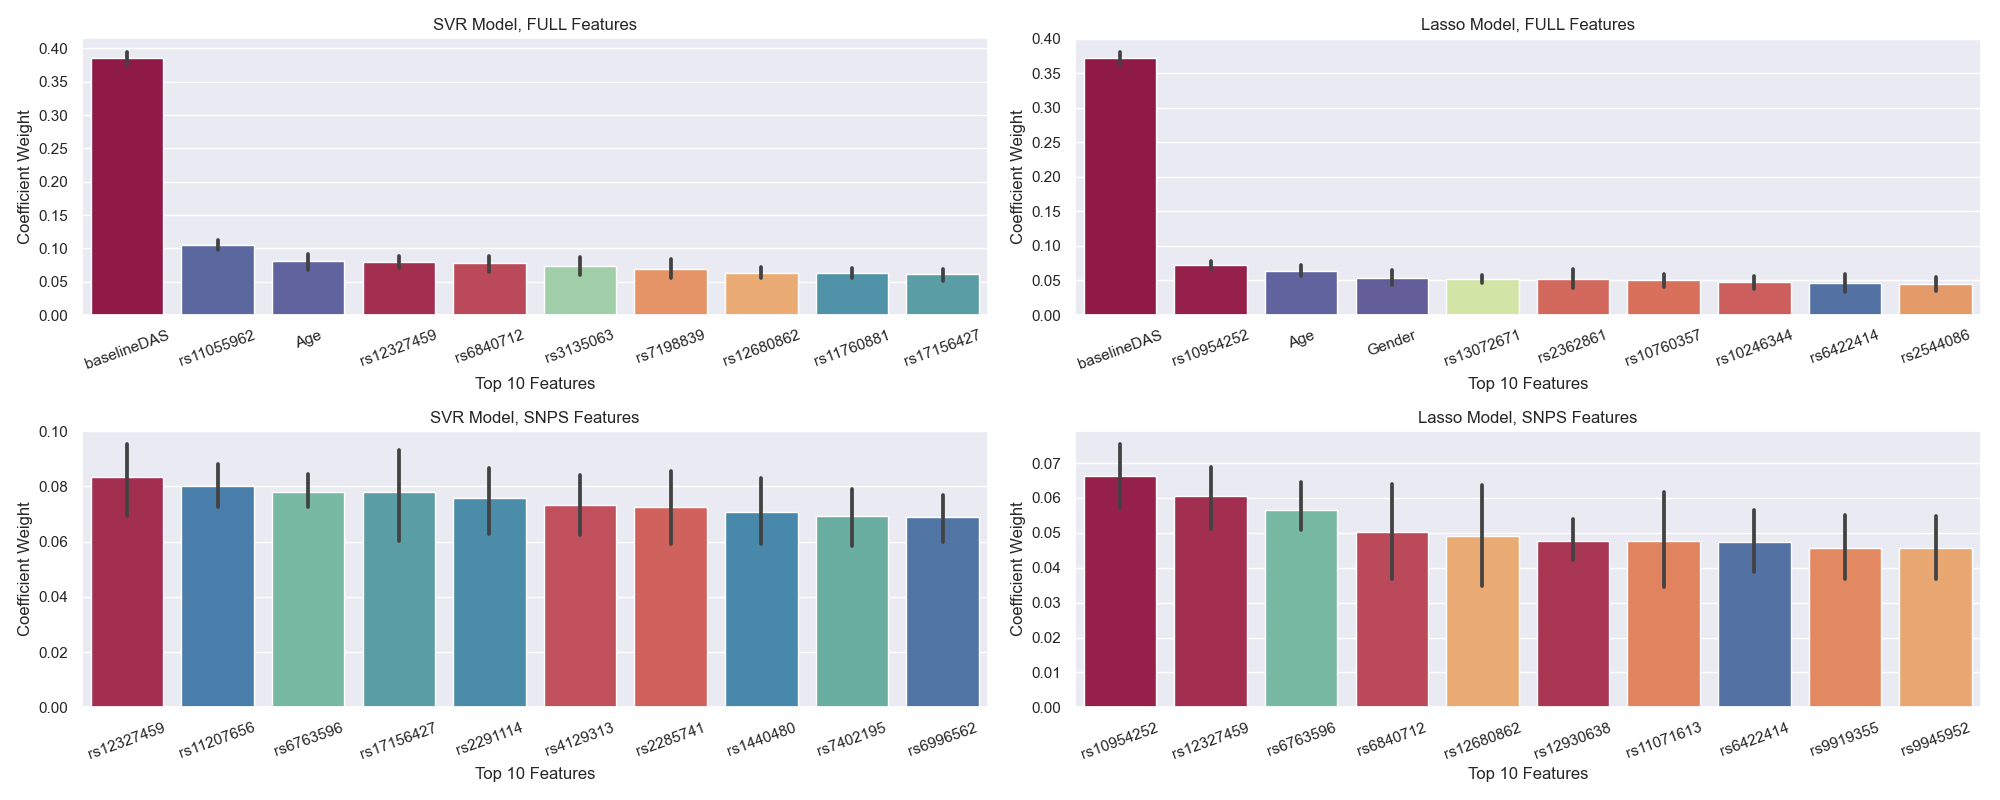
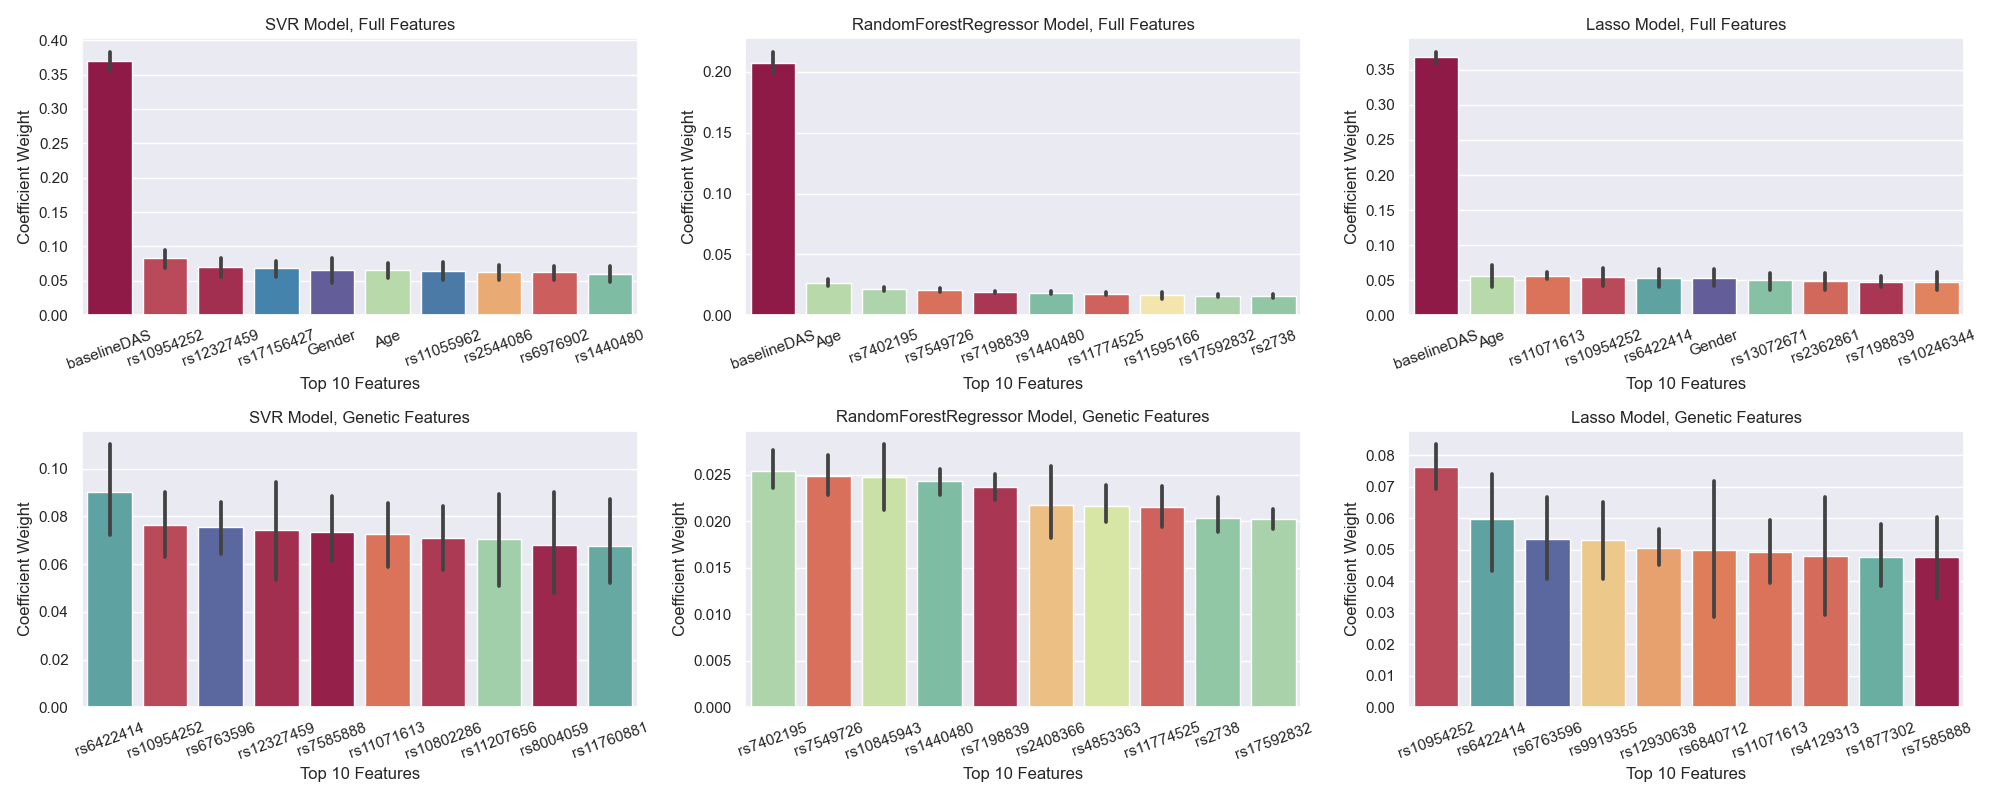
update plots to barplots + add all 5 possible models

diff --git a/RAantiTNF/gpr_guanlab.py b/RAantiTNF/gpr_guanlab.py
@@ -3,6 +3,7 @@ import re
 from functools import partial
 from pathlib import Path
 
+import matplotlib
 import matplotlib.pyplot as plt
 import numpy as np
 import pandas as pd
@@ -26,7 +27,7 @@ from utils import NonResponseRA
 RANDOM_STATE = 0
 META_PATH = "metadata/guanlab/"
 SNP_BY_DRUG = {
-    "adalumimab": "Guanlab_adalimumab_snps",
+    "adalimumab": "Guanlab_adalimumab_snps",
     "etanercept": "Guanlab_etanercept_snps",
     "infliximab": "Guanlab_infliximab_snps",
 }
@@ -79,9 +80,26 @@ def visualize_results(raw_results, stat_results, roc_results):
     plots = {}
     sns.set_theme()
 
-    plt.figure()
-    f = sns.violinplot(data=stat_results, x="feature", y="pearson", hue="drug_model")
-    plots["pearson"] = f.get_figure()
+    palette = sns.color_palette("hls", 5)
+
+    fig, axes = plt.subplots(stat_results["drug_model"].nunique(), 1, figsize=(5, 12))
+    for (title, group), ax in zip(
+        stat_results.groupby("drug_model", as_index=False), axes
+    ):
+        f = sns.barplot(
+            data=group,
+            x="feature",
+            y="pearson",
+            palette=palette,
+            order=["Full", "Baseline", "AGM", "G-free", "Genetic"],
+            ax=ax,
+        )
+        f.set_title(f"ΔDAS Pearson Correlation {title}")
+        f.set_ylim((0, 1))
+        for container in f.containers:
+            f.bar_label(container, label_type="center", fmt="%.3f")
+    fig.tight_layout()
+    plots["pearson"] = fig
 
     plt.figure()
     f = sns.scatterplot(data=raw_results, x="y_real", y="y_hat", hue="drug_model")
@@ -90,15 +108,40 @@ def visualize_results(raw_results, stat_results, roc_results):
     plots["scatterplot"] = f.get_figure()
 
     plt.figure()
-    f = sns.violinplot(data=stat_results, x="feature", y="auroc", hue="drug_model")
+    fig, axes = plt.subplots(stat_results["drug_model"].nunique(), 1, figsize=(5, 12))
+    for (title, group), ax in zip(
+        stat_results.groupby("drug_model", as_index=False), axes
+    ):
+        f = sns.barplot(
+            data=group,
+            x="feature",
+            y="auroc",
+            palette=palette,
+            order=["Full", "Baseline", "AGM", "G-free", "Genetic"],
+            ax=ax,
+        )
+        f.set_title(f"EULAR Response AUROC {title}")
+        f.set_ylim((0, 1))
+        for container in f.containers:
+            f.bar_label(container, label_type="center", fmt="%.3f")
+    fig.tight_layout()
     plots["auroc"] = f.get_figure()
 
     plt.figure()
-    f = sns.violinplot(data=stat_results, x="feature", y="accuracy", hue="drug_model")
+    f = sns.barplot(
+        data=stat_results,
+        x="feature",
+        y="accuracy",
+        hue="drug_model",
+        palette=palette,
+        order=["Full", "Baseline", "AGM", "G-free", "Genetic"],
+    )
+    f.set_ylim((0, 1))
     plots["accuracy"] = f.get_figure()
 
     fig, axes = plt.subplots(1, 2, figsize=(15, 5))
-    palettes = [("green", "orange", "blue"), ("red", "purple", "cyan")]
+    palettes = sns.color_palette("hls", n_colors=6)
+    palettes = (palettes[:3], palettes[3:])
 
     for ax, (feature, roc_group), palette in zip(
         axes, roc_results.groupby("feature"), palettes
@@ -295,7 +338,14 @@ def run_cross_validation(model, hyper_space, kernels, random_state):
 
 
 def data_generator(path=Path(META_PATH), snp_dict=SNP_BY_DRUG, test_index=TEST_INDEX):
-    REGEX_PATTERNS = {"SNPS": r"^rs", "FULL": r"."}
+    REGEX_PATTERNS = {
+        "Full": r".",
+        "Baseline": r"baselineDAS",
+        "AGM": r"Age|Gender|Mtx",
+        "AGM": r"Age|Gender|Mtx",
+        "G-free": r"^(?!Gender).*$",
+        "Genetic": r"^rs",
+    }
     SIT_OUT_COLMNS = {
         "Response.deltaDAS",
         "Cohort",
@@ -304,6 +354,8 @@ def data_generator(path=Path(META_PATH), snp_dict=SNP_BY_DRUG, test_index=TEST_I
         "Response.NonResp",
         "ID",
         "TNF-drug",
+        "tt_split",
+        "Drug",
     }
     Y_FEATURE = ["Response.deltaDAS"]
 
@@ -314,6 +366,10 @@ def data_generator(path=Path(META_PATH), snp_dict=SNP_BY_DRUG, test_index=TEST_I
 
         for patt_name, pattern in REGEX_PATTERNS.items():
             _df = engineered[engineered["TNF-drug"] == drug].reset_index(drop=True)
+            _df["tt_split"] = ["train"] * test_index + ["test"] * (
+                len(_df) - test_index
+            )
+            train_indices = _df["tt_split"].apply(lambda x: x == "train").values
 
             das = _df["baselineDAS"].values
             cat = _df["Response.NonResp"].values
@@ -332,7 +388,7 @@ def data_generator(path=Path(META_PATH), snp_dict=SNP_BY_DRUG, test_index=TEST_I
             dropped = list(
                 filter(
                     lambda x: not x.startswith("rs"),
-                    set(sample.columns) - set(_df.columns),
+                    set(sample.columns) - set(_df.columns.tolist()),
                 )
             )
             assert not dropped
@@ -343,7 +399,7 @@ def data_generator(path=Path(META_PATH), snp_dict=SNP_BY_DRUG, test_index=TEST_I
             X, y, yscaler = scale_xy(X, y)
 
             X_train, X_test, y_train, y_test, das_test, cat_test = test_train_split(
-                X, y, das, cat, test_index
+                X, y, das, cat, train_indices
             )
 
             yield drug, patt_name, X_train, X_test, y_train, y_test, das_test, cat_test, yscaler
@@ -357,16 +413,14 @@ def scale_xy(X, y):
     return X, y, yscaler
 
 
-def test_train_split(X, y, das, cat, test_index, len_data=2706):
-    assert X.shape[0] == len_data
-    assert y.shape[0] == len_data
+def test_train_split(X, y, das, cat, train_indices):
     return (
-        X[:test_index],
-        X[test_index:],
-        y[:test_index],
-        y[test_index:],
-        das[test_index:],
-        cat[test_index:],
+        X[train_indices],
+        X[~train_indices],
+        y[train_indices],
+        y[~train_indices],
+        das[~train_indices],
+        cat[~train_indices],
     )
 
 
@@ -374,31 +428,14 @@ def feature_engineering(data):
     to_impute = ["baselineDAS", "Age", "Gender", "Mtx"]
     knn = KNNImputer(n_neighbors=5)
     data[to_impute] = knn.fit_transform(data[to_impute])
+    data["Drug"] = data["Drug"].fillna("none")
 
     # convert drugs to one-hot encoding
     onehot_drugs = pd.get_dummies(data["Drug"])
-    data = data.drop(["Drug"], axis=1)
+    # data = data.drop(["Drug"], axis=1)
 
-    data = pd.concat([data, onehot_drugs], axis=1)
+    # data = pd.concat([data, onehot_drugs], axis=1)
     return data
-
-
-def split_xy(df):
-    y_cols = ["Response.deltaDAS"]
-    not_X_cols = [
-        "Response.deltaDAS",
-        "Cohort",
-        "Batch",
-        "Response.EULAR",
-        "Response.NonResp",
-        "ID",
-        "TNF-drug",
-    ]
-    X = df.drop(not_X_cols, axis=1).values
-    y = df[y_cols].values
-    das = df["baselineDAS"].values
-    cat = df["Response.NonResp"].values
-    return X, y, das, cat
 
 
 @cachewrapper("cache", "guanlab_fulldata")

diff --git a/RAantiTNF/SJU_models.py b/RAantiTNF/SJU_models.py
@@ -81,8 +81,23 @@ def visualize_results(raw_results, stat_results, roc_results, xfeats):
     plots = {}
     sns.set_theme()
 
-    plt.figure()
-    f = sns.violinplot(data=stat_results, x="feature", y="pearson", hue="model")
+    palette = sns.color_palette("hls", 5)
+
+    fig, axes = plt.subplots(stat_results["model"].nunique(), 1, figsize=(5, 12))
+    for (title, group), ax in zip(stat_results.groupby("model", as_index=False), axes):
+        f = sns.barplot(
+            data=group,
+            x="feature",
+            y="pearson",
+            palette=palette,
+            order=["Full", "Baseline", "AGM", "G-free", "Genetic"],
+            ax=ax,
+        )
+        f.set_title(f"ΔDAS Pearson Correlation {title}")
+        f.set_ylim((0, 1))
+        for container in f.containers:
+            f.bar_label(container, label_type="center", fmt="%.3f")
+    fig.tight_layout()
     plots["pearson"] = f.get_figure()
 
     plt.figure()
@@ -92,7 +107,21 @@ def visualize_results(raw_results, stat_results, roc_results, xfeats):
     plots["scatterplot"] = f.get_figure()
 
     plt.figure()
-    f = sns.violinplot(data=stat_results, x="feature", y="auroc", hue="model")
+    fig, axes = plt.subplots(stat_results["model"].nunique(), 1, figsize=(5, 12))
+    for (title, group), ax in zip(stat_results.groupby("model", as_index=False), axes):
+        f = sns.barplot(
+            data=group,
+            x="feature",
+            y="auroc",
+            palette=palette,
+            order=["Full", "Baseline", "AGM", "G-free", "Genetic"],
+            ax=ax,
+        )
+        f.set_title(f"EULAR Response AUROC {title}")
+        f.set_ylim((0, 1))
+        for container in f.containers:
+            f.bar_label(container, label_type="center", fmt="%.3f")
+    fig.tight_layout()
     plots["auroc"] = f.get_figure()
 
     plt.figure()
@@ -100,10 +129,14 @@ def visualize_results(raw_results, stat_results, roc_results, xfeats):
     plots["accuracy"] = f.get_figure()
 
     fig, axes = plt.subplots(1, 2, figsize=(15, 5))
-    palettes = [("green", "orange", "blue"), ("red", "purple", "cyan")]
 
+    nun = roc_results["model"].nunique()
+    palettes = sns.color_palette("hls", nun * 2)
+    palettes = palettes[nun:], palettes[:nun]
+
+    roc_ok = roc_results[roc_results["feature"].isin(["Full", "Genetic", "ASM"])]
     for ax, (feature, roc_group), palette in zip(
-        axes, roc_results.groupby("feature"), palettes
+        axes, roc_ok.groupby("feature"), palettes
     ):
 
         f = sns.lineplot(
@@ -116,10 +149,16 @@ def visualize_results(raw_results, stat_results, roc_results, xfeats):
 
         roc_auc = list(roc_group.groupby(["model"])[["roc_auc"]].mean().itertuples())
         labels = list(map(lambda x: f"{x[0]}, {x[1]:.2f}", roc_auc))
-        ax.legend(title="Mean AUROC", loc="upper left", labels=labels)
+        ax.legend(
+            title="Mean AUROC",
+            loc="upper left",
+            labels=labels,
+            handles=ax.get_legend().legendHandles,
+        )
 
     plots["roccurve"] = fig
 
+    xfeats = xfeats[xfeats["feature"].isin(["Full", "Genetic"])]
     fig, axes = plt.subplots(
         xfeats["feature"].nunique(), xfeats["model"].nunique(), figsize=(20, 8)
     )
@@ -331,7 +370,7 @@ def run_cross_validation(models, hyper_dict, random_state):
                 if hasattr(best_model_i, "coef_"):
                     importance = best_model_i.coef_.flatten()
                 elif hasattr(best_model_i, "feature_importances_"):
-                    importance = best_model_i.feature_importance_.flatten()
+                    importance = best_model_i.feature_importances_.flatten()
                 else:
                     importance = None
 
@@ -357,7 +396,14 @@ def run_cross_validation(models, hyper_dict, random_state):
 
 
 def data_generator(path=Path(META_PATH), snp_dict=SNP_BY_DRUG, test_index=TEST_INDEX):
-    REGEX_PATTERNS = {"FULL": r".", "SNPS": r"^rs"}
+    REGEX_PATTERNS = {
+        "Full": r".",
+        "Baseline": r"baselineDAS",
+        "AGM": r"Age|Gender|Mtx",
+        "AGM": r"Age|Gender|Mtx",
+        "G-free": r"^(?!Gender).*$",
+        "Genetic": r"^rs",
+    }
     SIT_OUT_COLMNS = {
         "Response.deltaDAS",
         "Cohort",
